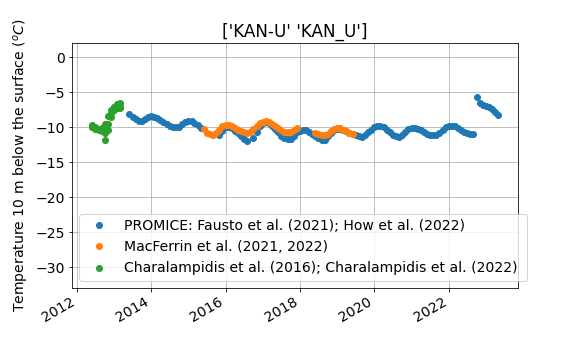
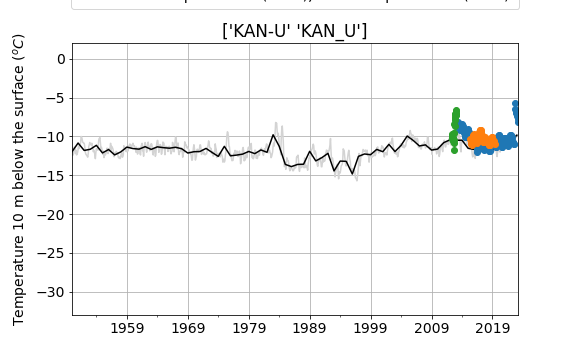
new plot selected cluster

diff --git a/3_cluster_analysis.py b/3_cluster_analysis.py
@@ -228,7 +228,9 @@ ds_ann = xr.open_dataset("output/T10m_prediction.nc")
 ds_ann["time"] = pd.to_datetime(ds_ann["time"])
 crs_ann = CRS.from_string("EPSG:4326")
 ds_ann = ds_ann.rio.write_crs(crs_ann)
-# %%
+cluster_coord = gdf.reset_index(drop=True)[['latitude','longitude','clusters']].groupby('clusters').mean()
+cluster_coord['site'] = gdf.reset_index(drop=True)[['site','clusters']].groupby('clusters').site.apply(lambda x: list(np.unique(x)))
+# %% Plotting all clusters
 # fig, ax = plt.subplots(5, 3, figsize=(20, 20))
 # ax = ax.flatten()
 # fig.subplots_adjust(
@@ -261,6 +263,12 @@ for cluster_id in unique_labels:
         fig, ax = plt.subplots(1, 1, figsize=(8, 5))
         ax = [ax]
         i = 0
+        df_ANN = ds_ann.T10m.sel(longitude=cluster_coord.loc[cluster_id,'longitude'],
+            latitude=cluster_coord.loc[cluster_id,'latitude'],
+            method="nearest").to_dataframe()
+        df_ANN.T10m.plot(ax=ax[i],label='ANN',color='lightgray')
+        df_ANN.T10m.resample("Y").mean().plot(ax=ax[i],color='k',
+                                              label='ANN annual average')
         for ref in ref_list:
             if ref == "PROMICE":
                 tmp2 = tmp.loc[tmp.reference_short == ref,:]
@@ -277,15 +285,11 @@ for cluster_id in unique_labels:
                 tmp.loc[tmp.reference_short == ref].temperatureObserved.plot(
                     ax=ax[i], marker="o", markersize=6, linestyle="none", label=ref
                 )
-        df_ANN = ds_ann.T10m.sel(longitude=site_list.loc[site, "lon"],
-            latitude=site_list.loc[site, "lat"],
-            method="nearest").to_dataframe().resample("Y").mean()
-        df_ANN_interp = np.interp(df_select.date, df_ANN.index, df_ANN.T10m)
-
+            
         ax[i].set_ylabel("Temperature 10 m below the surface ($^oC$)")
         ax[i].set_xlabel("")
         ax[i].set_title(str(np.unique(tmp.site)))
-        ax[i].legend()
+        ax[i].legend(loc='lower center',bbox_to_anchor=(0.5,1.1))
         ax[i].set_ylim(-33, 2)
         ax[i].grid()
 
@@ -294,3 +298,59 @@ for cluster_id in unique_labels:
 
 # fig.text(0.05, 0.7, "10 m subsurface temperature ($^o$C)", ha='center', va='center', rotation='vertical',fontsize=12)
         fig.savefig("figures/clusters/"+tmp.site.unique()[-1]+".png")
+
+# %% Plotting at specific clusters
+abc = 'abcdefghijkl'
+
+fig, ax = plt.subplots(6, 2, figsize=(10, 15), sharex=True, sharey=True)
+ax = ax.flatten()
+fig.subplots_adjust(
+    hspace=0.3, wspace=0.05, top=0.88, bottom=-0.5, left=0.1, right=0.9
+)
+i = -1
+
+# cmap = cm.get_cmap('tab20', len(ref_all))    # PiYG
+# cmap.set_under('b')
+# cmap.set_over('b')
+handles = list()
+labels = list()
+
+sym= 'o d ^ v > < s x *'.split()
+site_list = ['NASA-SE','NASA-E','NASA-U','DYE-2','Swiss Camp','Summit', 'CampCentury', 'Tunu-N', 'South Dome', 'Saddle', 'Humboldt','Crawford Point 1', 'Swiss Camp']
+
+for site in site_list:
+    cluster_id = cluster_coord.index[cluster_coord.site.apply(lambda x: site in x)][0]
+    if cluster_id == -1:
+        continue
+
+    tmp = gdf.loc[cluster_id]
+    ref_list = tmp.reference_short.unique()
+    print(cluster_id, tmp.site.unique(), np.nanmin(tmp.year), np.nanmax(tmp.year),',', tmp.shape[0])
+    if len(ref_list) > 1:
+
+        i = i+1
+
+        tmp.temperatureObserved.plot(
+            ax=ax[i], marker="o",c='tab:red',
+            markersize=10, linestyle="none", #label=ref
+        )
+        df_ANN = ds_ann.T10m.sel(longitude=cluster_coord.loc[cluster_id,'longitude'],
+            latitude=cluster_coord.loc[cluster_id,'latitude'],
+            method="nearest").to_dataframe()
+        df_ANN.T10m.plot(ax=ax[i],label='ANN',
+                         color='gray',drawstyle='steps', alpha=0.7)
+        df_ANN.T10m.resample("Y").mean().plot(ax=ax[i],color='k',
+                                              label='ANN annual average',
+                                              drawstyle='steps', alpha=0.7)
+                          
+
+            
+        ax[i].set_ylabel("$T_{10m}$ ($^oC$)")
+        ax[i].set_xlabel("")
+        ax[i].set_title('('+abc[i]+') '+site)
+        if i == 0: ax[i].legend(loc='lower center',bbox_to_anchor=(1.1,1.2))
+        ax[i].set_ylim(-33, 2)
+        ax[i].set_xlim('1990', '2023')
+        ax[i].grid()
+
+        fig.savefig("figures/clusters/selected.png")
